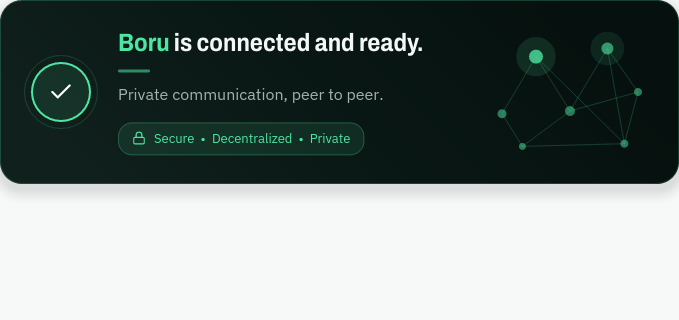
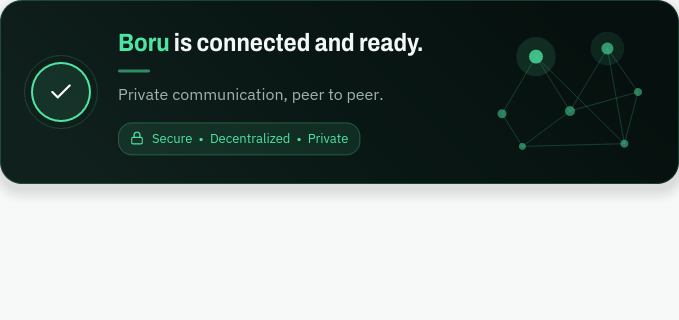
fix(ui): security pill — one compact nowrap row, never stacked (CONN-07)
Spec section 9: the 'Secure • Decentralized • Private' pill is now a
single compact inline row. The text element gets Wrapping::None (the
iced equivalent of white-space: nowrap) and both the inner Row and the
pill container use Shrink width (fit-content), so the icon and text hug
their content on one line and can never be compressed into a two-line
wrap or a vertical column. Padding adjusted 8/14 -> 8/12 per spec;
SupportingText is 13px, already in the 12-13px band; gap stays 8px.

Regression tests (offscreen harness): security_pill_stays_one_compact_
row_at_every_width sweeps available widths 60..400px and asserts the
laid-out height never grows (no wrap / no vertical stack) and the width
never exceeds the container; security_pill_uses_nowrap_and_fit_content
checks the real tier floors (240/260/679/1215). Captures regenerated:
Ready card heights unchanged (218/184/184/200.7/393.9).

Changed region(s): [[0.1856, 0.4062, 0.5567, 0.4688]]

diff --git a/examples/iced_chat/offscreen_status_card.rs b/examples/iced_chat/offscreen_status_card.rs
@@ -129,6 +129,22 @@ fn measure_card_height(dep: &StatusCardDependency, w: f32) -> f32 {
     node.bounds().height
 }
 
+/// Lay the `Secure • Decentralized • Private` pill out at the given
+/// available width and return its REAL laid-out (width, height). Used by
+/// the CONN-07 nowrap regression test: with `Wrapping::None` the pill must
+/// hug its content at wide widths and must NEVER grow taller (i.e. wrap
+/// into a vertical column) when the available width shrinks.
+fn measure_pill(available_width: f32) -> (f32, f32) {
+    let renderer =
+        iced::Renderer::Secondary(iced_tiny_skia::Renderer::new(Font::default(), Pixels(16.0)));
+    let mut element: iced::Element<'_, AppMessage> = crate::status_card::security_pill();
+    let mut tree = Tree::new(element.as_widget());
+    let limits = layout::Limits::new(Size::ZERO, Size::new(available_width, 100.0));
+    let node = element.as_widget_mut().layout(&mut tree, &renderer, &limits);
+    let b = node.bounds();
+    (b.width, b.height)
+}
+
 #[cfg(test)]
 mod tests {
     use super::*;
@@ -221,5 +237,77 @@ mod tests {
             (170.0..=240.0).contains(&medium),
             "Ready Medium card height {medium:.1}px must stay compact (single-line heading at CONN-06 scale; wrapped-growth allowed to 240)"
         );
+    }
+
+    #[test]
+    fn security_pill_stays_one_compact_row_at_every_width() {
+        // CONN-07 acceptance (spec §9): the pill is one compact inline row
+        // (icon + text on a single line, `white-space: nowrap`,
+        // `width: fit-content`). It must hug its content at wide widths
+        // and MUST NEVER grow taller (wrap into a second line / a vertical
+        // column) when the available width shrinks — the card switches to
+        // the stacked layout (CONN-09) instead of squeezing the pill.
+        load_font(include_bytes!("fonts/IBMPlexSans-Regular.ttf"));
+
+        // Measure at an unconstrained width first — the natural, hugging
+        // size of the pill (icon 14 + gap 8 + text + padding 8/12).
+        let (natural_w, natural_h) = measure_pill(1000.0);
+        assert!(
+            natural_w > 0.0 && natural_w < 400.0,
+            "pill natural width {natural_w:.1}px should be a compact one-row element"
+        );
+        // A single line of 13px supporting text + 8px vertical padding.
+        assert!(
+            natural_h < 45.0,
+            "pill natural height {natural_h:.1}px must be a single compact row"
+        );
+
+        // Now squeeze: every available width from wide down to absurdly
+        // narrow must keep the SAME height (one line, never a vertical
+        // stack). The laid-out width must never exceed the available width
+        // (the pill never forces the card wider than its container).
+        for available in [
+            400.0, 300.0, 280.0, 260.0, 240.0, 220.0, 200.0, 180.0, 160.0, 140.0, 120.0,
+            100.0, 80.0, 60.0,
+        ] {
+            let (w, h) = measure_pill(available);
+            assert!(
+                (h - natural_h).abs() < 0.5,
+                "pill height {h:.1}px at {available:.0}px available must stay the \
+                 single-row height {natural_h:.1}px (never a vertical column)"
+            );
+            assert!(
+                w <= available + 0.5,
+                "pill width {w:.1}px at {available:.0}px available must never exceed \
+                 its container"
+            );
+        }
+    }
+
+    #[test]
+    fn security_pill_uses_nowrap_and_fit_content() {
+        // CONN-07: structural regression guard — the pill must stay a
+        // single-row fit-content element. This renders the pill inside a
+        // narrow fixed container and asserts the laid-out height is
+        // identical to the natural single-row height (the wrapped pill
+        // would grow vertically; the stacked pill would be a column).
+        load_font(include_bytes!("fonts/IBMPlexSans-Regular.ttf"));
+
+        let (_, natural_h) = measure_pill(1000.0);
+        // The tightest horizontal tier the card supports before switching
+        // to the stacked layout: the Medium text column floor (240px) and
+        // the Full tier floor (260px) — plus the real 679/1215 widths.
+        for available in [240.0, 260.0, 679.0, 1215.0] {
+            let (w, h) = measure_pill(available);
+            assert!(
+                (h - natural_h).abs() < 0.5,
+                "pill must stay a single row at {available:.0}px (got height {h:.1}px, \
+                 natural {natural_h:.1}px)"
+            );
+            assert!(
+                w <= available + 0.5,
+                "pill must fit its container at {available:.0}px (got width {w:.1}px)"
+            );
+        }
     }
 }

diff --git a/examples/iced_chat/status_card.rs b/examples/iced_chat/status_card.rs
@@ -440,7 +440,16 @@ fn status_divider(accent: Color) -> iced::Element<'static, AppMessage> {
 
 /// Compact `Secure • Decentralized • Private` status pill with a lock
 /// glyph. Purely informational — no hover/click behaviour.
-fn security_pill() -> iced::Element<'static, AppMessage> {
+///
+/// CONN-07 (spec §9): the pill is ONE compact inline row —
+/// `white-space: nowrap` + `width: fit-content` — so the icon and the
+/// text always share a single line. The text element uses
+/// `Wrapping::None` (the iced equivalent of nowrap) and both the inner
+/// row and the container use Shrink width so the pill hugs its content
+/// and can never be compressed into a vertical column. When the card is
+/// genuinely narrow the stacked layout (CONN-09) takes over instead of
+/// squeezing this pill.
+pub(crate) fn security_pill() -> iced::Element<'static, AppMessage> {
     container(
         Row::new()
             .push(
@@ -455,12 +464,18 @@ fn security_pill() -> iced::Element<'static, AppMessage> {
                     TypeRole::SupportingText,
                     "Secure  \u{2022}  Decentralized  \u{2022}  Private",
                 )
-                .color(design_tokens::STATUS_CONNECTED),
+                .color(design_tokens::STATUS_CONNECTED)
+                // Nowrap: the pill text must never wrap onto a second
+                // line or break into a vertical stack (spec §9).
+                .wrapping(iced::widget::text::Wrapping::None),
             )
             .spacing(0)
-            .align_y(Alignment::Center),
+            .align_y(Alignment::Center)
+            // fit-content — hug the icon + gap + text.
+            .width(Length::Shrink),
     )
-    .padding([design_tokens::SPACE_8, 14.0])
+    .padding([design_tokens::SPACE_8, design_tokens::SPACE_12])
+    .width(Length::Shrink)
     .style(move |_t| container::Style {
         background: Some(Background::Color(with_alpha(
             design_tokens::STATUS_CONNECTED,
